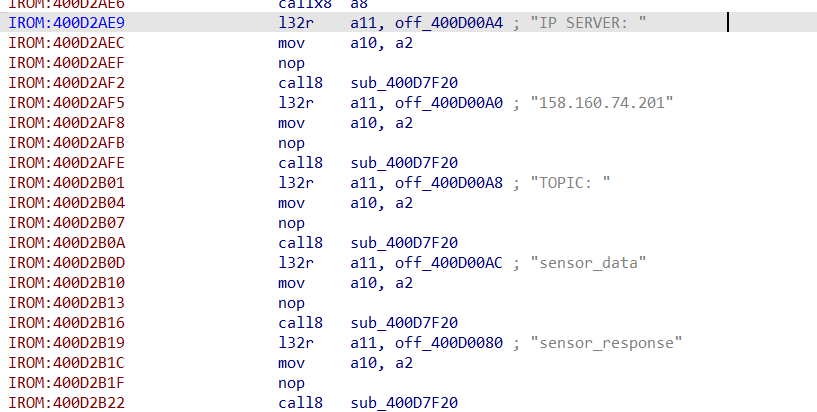
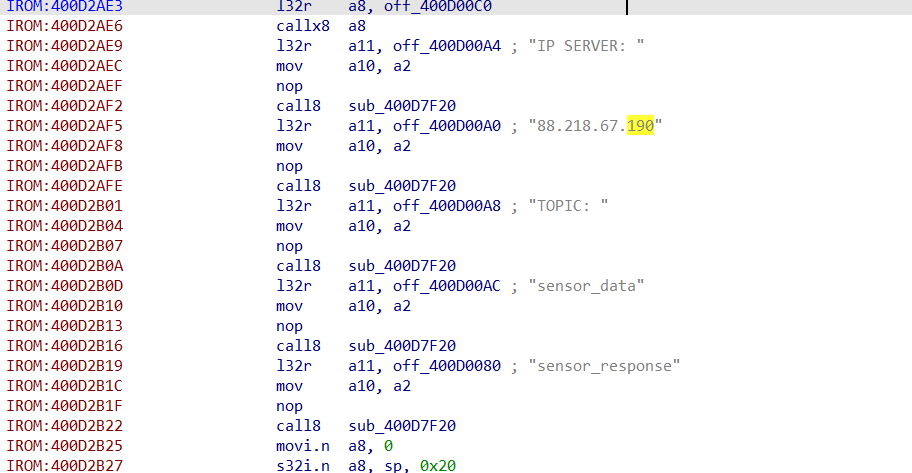
chenge ip

Changed region(s): [[0.0, 0.0, 1.0, 1.0]]

diff --git a/forensic/BotNet/README.md b/forensic/BotNet/README.md
@@ -19,7 +19,7 @@ docker compose up --build -d
 
 Содержимое директории [public/](public/)
 
-## Hint
+## hint
 если есть ip адрес значит есть и открытые порты, возможно нужно проверить все 
 
 
@@ -46,11 +46,11 @@ docker compose up --build -d
 Видим два открытых порта — **22 (SSH)** и **1883 (MQTT сервер)**. Гуглим, как подключиться к нему.
 Это можно сделать одной командой.
 ```sh
-mosquitto_sub -h 158.160.74.201 -t sensor_data
+mosquitto_sub -h 88.218.67.190 -t sensor_data
 ```
 Это мы подключились к одному топику, а у нас есть еще и второй. Подключаемся и к нему тоже. 
 ```sh
-mosquitto_sub -h 158.160.74.201 -t sensor_response
+mosquitto_sub -h 88.218.67.190 -t sensor_response
 ```
 ![check_topic](./img/topic_check.png)
 Видим, что идут какие-то пакеты: устройство отправляет и получает обратный ответ от сервера. 
